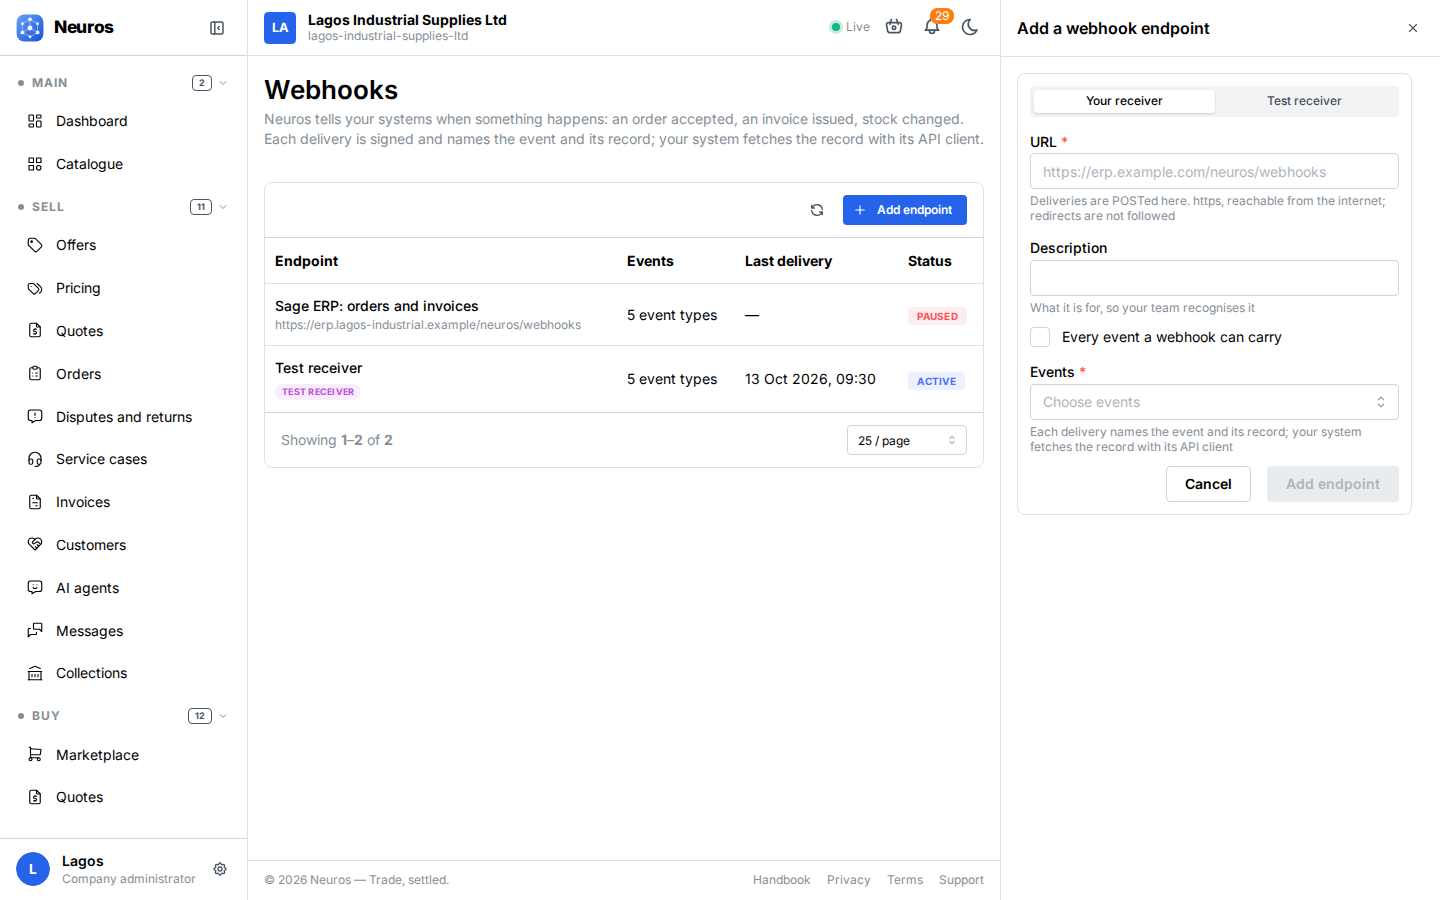
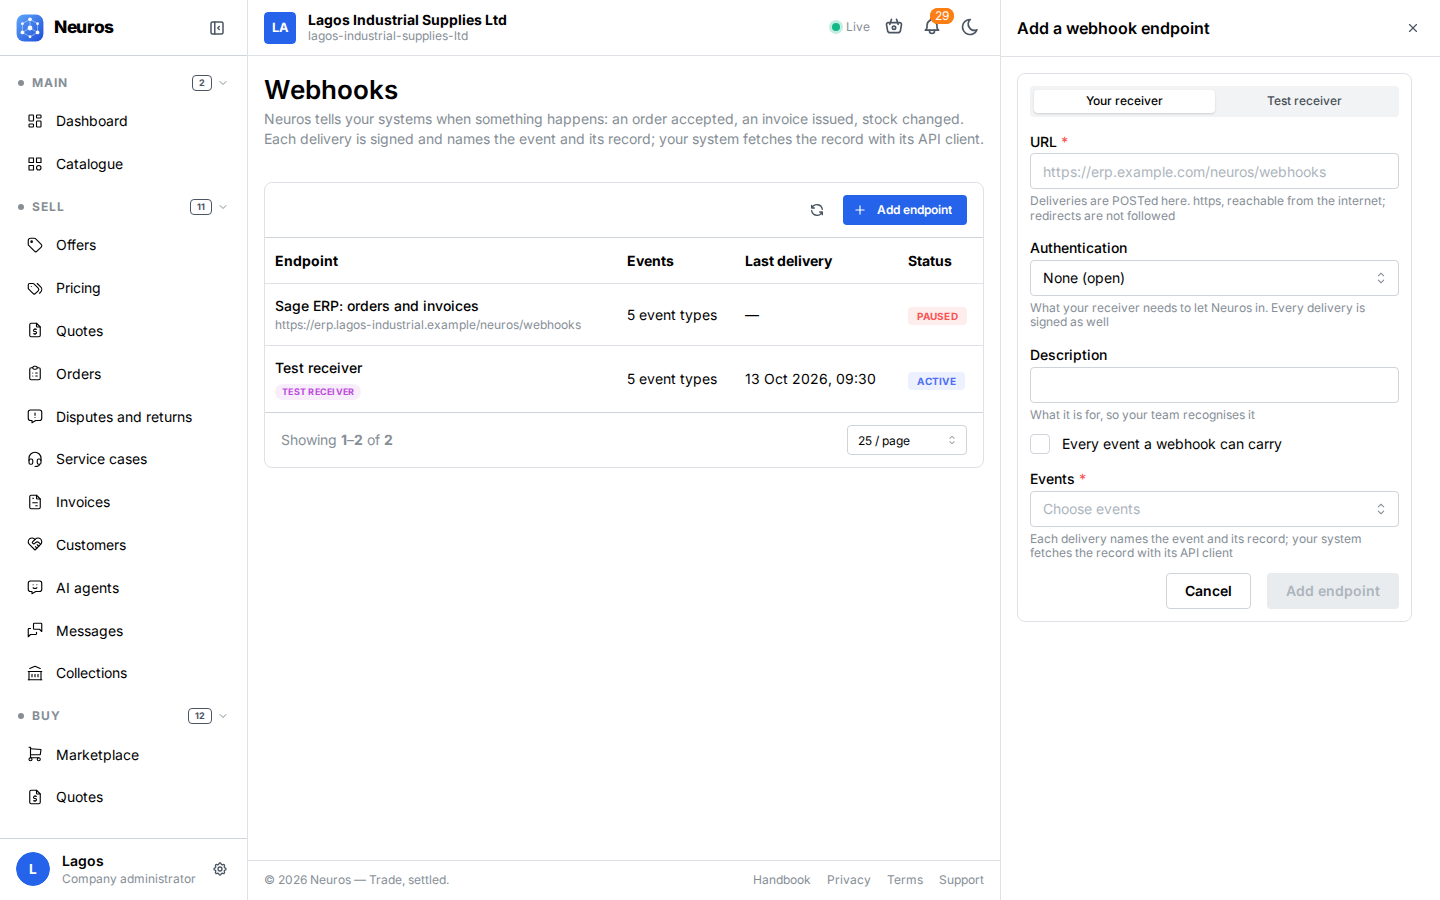
Webhooks: authentication (none, basic, API key, bearer), its fields, shot and API guide

Changed region(s): [[0.7188, 0.2489, 0.9688, 0.6222], [0.8125, 0.6533, 0.9688, 0.6844]]

diff --git a/capture/walk.ts b/capture/walk.ts
@@ -499,6 +499,17 @@ export function walk(w: Walk): Scenario[] {
       ],
     }),
     shot('webhooks/new', '/integrations/webhooks', 'Add a webhook endpoint', { steps: click('Add endpoint') }),
+    shot('webhooks/auth', '/integrations/webhooks', 'An endpoint that sends an API key', {
+      steps: async (p: Page) => {
+        await p.getByRole('button', { name: 'Add endpoint' }).click();
+        await p.getByRole('textbox', { name: 'URL' }).fill('https://erp.lagos-industrial.example/neuros/webhooks');
+        await p.getByRole('textbox', { name: 'Authentication' }).click();
+        await p.getByRole('option', { name: 'API key in a header' }).click();
+        await p.getByRole('textbox', { name: 'Header' }).fill('X-Api-Key');
+        await p.getByLabel(/^Value/).fill('demo-key-0042');
+      },
+      callouts: [{ n: 1, target: { role: 'textbox', name: 'Authentication' }, text: 'None by default; Basic, an API key or a Bearer token if your receiver wants one.', side: 'left' }],
+    }),
     shot('webhooks/detail', '/integrations/webhooks', 'A test receiver and what it received', {
       steps: async (p: Page) => { await p.getByRole('row').filter({ hasText: 'Test receiver' }).first().click(); }, fullPage: true,
       callouts: [
